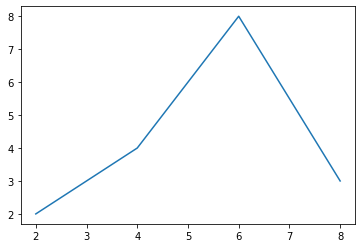
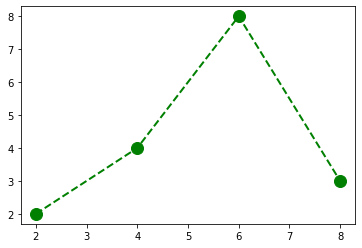
GitBook: [master] 80 pages and 11 assets modified

diff --git a/data-science/vizualizarea-datelor/matplotlib.md b/data-science/vizualizarea-datelor/matplotlib.md
@@ -35,22 +35,143 @@ y = [2, 4, 8, 3]
 plt.plot(x, y) 
 ```
 
-![](../../.gitbook/assets/image%20%28287%29.png)
+![](../../.gitbook/assets/image%20%28291%29.png)
+
+{% hint style="info" %}
+Daca nu lucram in Colab, vom avea nevoie sa apelam plt.show\(\) pentru a afisa graficul
+{% endhint %}
+
+```text
+plt.show()
+```
 
 ## Diferite stiluri de marker
 
 Putem adauga un parametru optional care defineste culoarea, tipul markerului si stilul liniei: o, ., x, ro, -o, r-o, etc
 
 ```text
+x = [2, 4, 6, 8]
+y = [2, 4, 8, 3]
+
 plt.plot(x, y, 'o')
 ```
 
-![](../../.gitbook/assets/image%20%28288%29.png)
+![](../../.gitbook/assets/image%20%28294%29.png)
 
 ```
+x = [2, 4, 6, 8]
+y = [2, 4, 8, 3]
+
 plt.plot(x, y, color = 'green', marker = 'o', linestyle = 'dashed',
          linewidth=2, markersize=12)
 ```
 
+![](../../.gitbook/assets/image%20%28287%29.png)
 
+### Adăugăm denumirile axelor x şi y
+
+```text
+x = [2, 4, 6, 8]
+y = [2, 4, 8, 3]
+
+plt.plot(x, y, 'r', label = 'line')
+plt.xlabel('Zi din luna Iulie')
+plt.ylabel('Număr de cărți vândute')
+
+plt.show()
+```
+
+![](../../.gitbook/assets/image%20%28296%29.png)
+
+### Afişăm titlul graficului
+
+```text
+x = [2, 4, 6, 8]
+y = [2, 4, 8, 3]
+
+plt.plot(x, y, 'r', label = 'line')
+plt.title('Trendul de vânzare a cărților pentru 7 zile')
+```
+
+![](../../.gitbook/assets/image%20%28297%29.png)
+
+### Afişăm legenda
+
+```text
+x = [2, 4, 6, 8]
+y = [2, 4, 8, 3]
+
+plt.plot(x, y, 'r', label = 'nr de vanzari')
+plt.legend()
+```
+
+![](../../.gitbook/assets/image%20%28288%29.png)
+
+## Tipuri de grafice
+
+### Barh
+
+Tipul de grafice barh este potrivit pentru a reprezenta multe categorii de valori. Acesta afișează bare orizontale care reprezintă valoarea fiecărei categorii.
+
+```text
+fructe = ['mar', 'banana', 'mango', 'portocala', 'para']
+nr_de_fructe = [3, 2, 5, 2, 1]
+
+plt.barh(fructe, nr_de_fructe)
+```
+
+![](../../.gitbook/assets/image%20%28289%29.png)
+
+### Bar
+
+```text
+fructe = ['mar', 'banana', 'mango', 'portocala', 'para']
+nr_de_fructe = [3, 2, 5, 2, 1]
+
+plt.bar(fructe, nr_de_fructe)
+```
+
+![](../../.gitbook/assets/image%20%28293%29.png)
+
+### Histogram
+
+Histograma reprezintă distribuția și frecvența datelor.
+
+```text
+plt.hist([1, 2, 2, 3, 3, 3, 4, 4, 10], color='r')
+```
+
+![](../../.gitbook/assets/image%20%28290%29.png)
+
+### Pie
+
+Pie este un grafic care reprezintă valorile categoriale radial. Este potrivit pentru situațiile când avem puține categorii.
+
+```text
+fructe = ['mar', 'banana', 'mango', 'portocala', 'para']
+nr_de_fructe = [3, 2, 5, 2, 1]
+
+plt.pie(nr_de_fructe, labels = fructe);
+plt.title('Cantități de fructe')
+```
+
+![](../../.gitbook/assets/image%20%28292%29.png)
+
+### Scatter
+
+Graficul Scatter ne permite să investigăm relația dintre 2 valori.
+
+```text
+fructe = ['mar', 'banana', 'mango', 'portocala', 'para']
+nr_de_fructe = [3, 2, 5, 2, 1]
+pretul_fructelor = [5, 10, 25, 7, 2]
+
+plt.scatter(pretul_fructelor, nr_de_fructe)
+
+plt.xlabel('Numărul de fructe')
+plt.ylabel('Prețul')
+plt.title('Prețul fructelor în dependență de cantitatea lor');
+```
+
+![](../../.gitbook/assets/image%20%28295%29.png)
 
